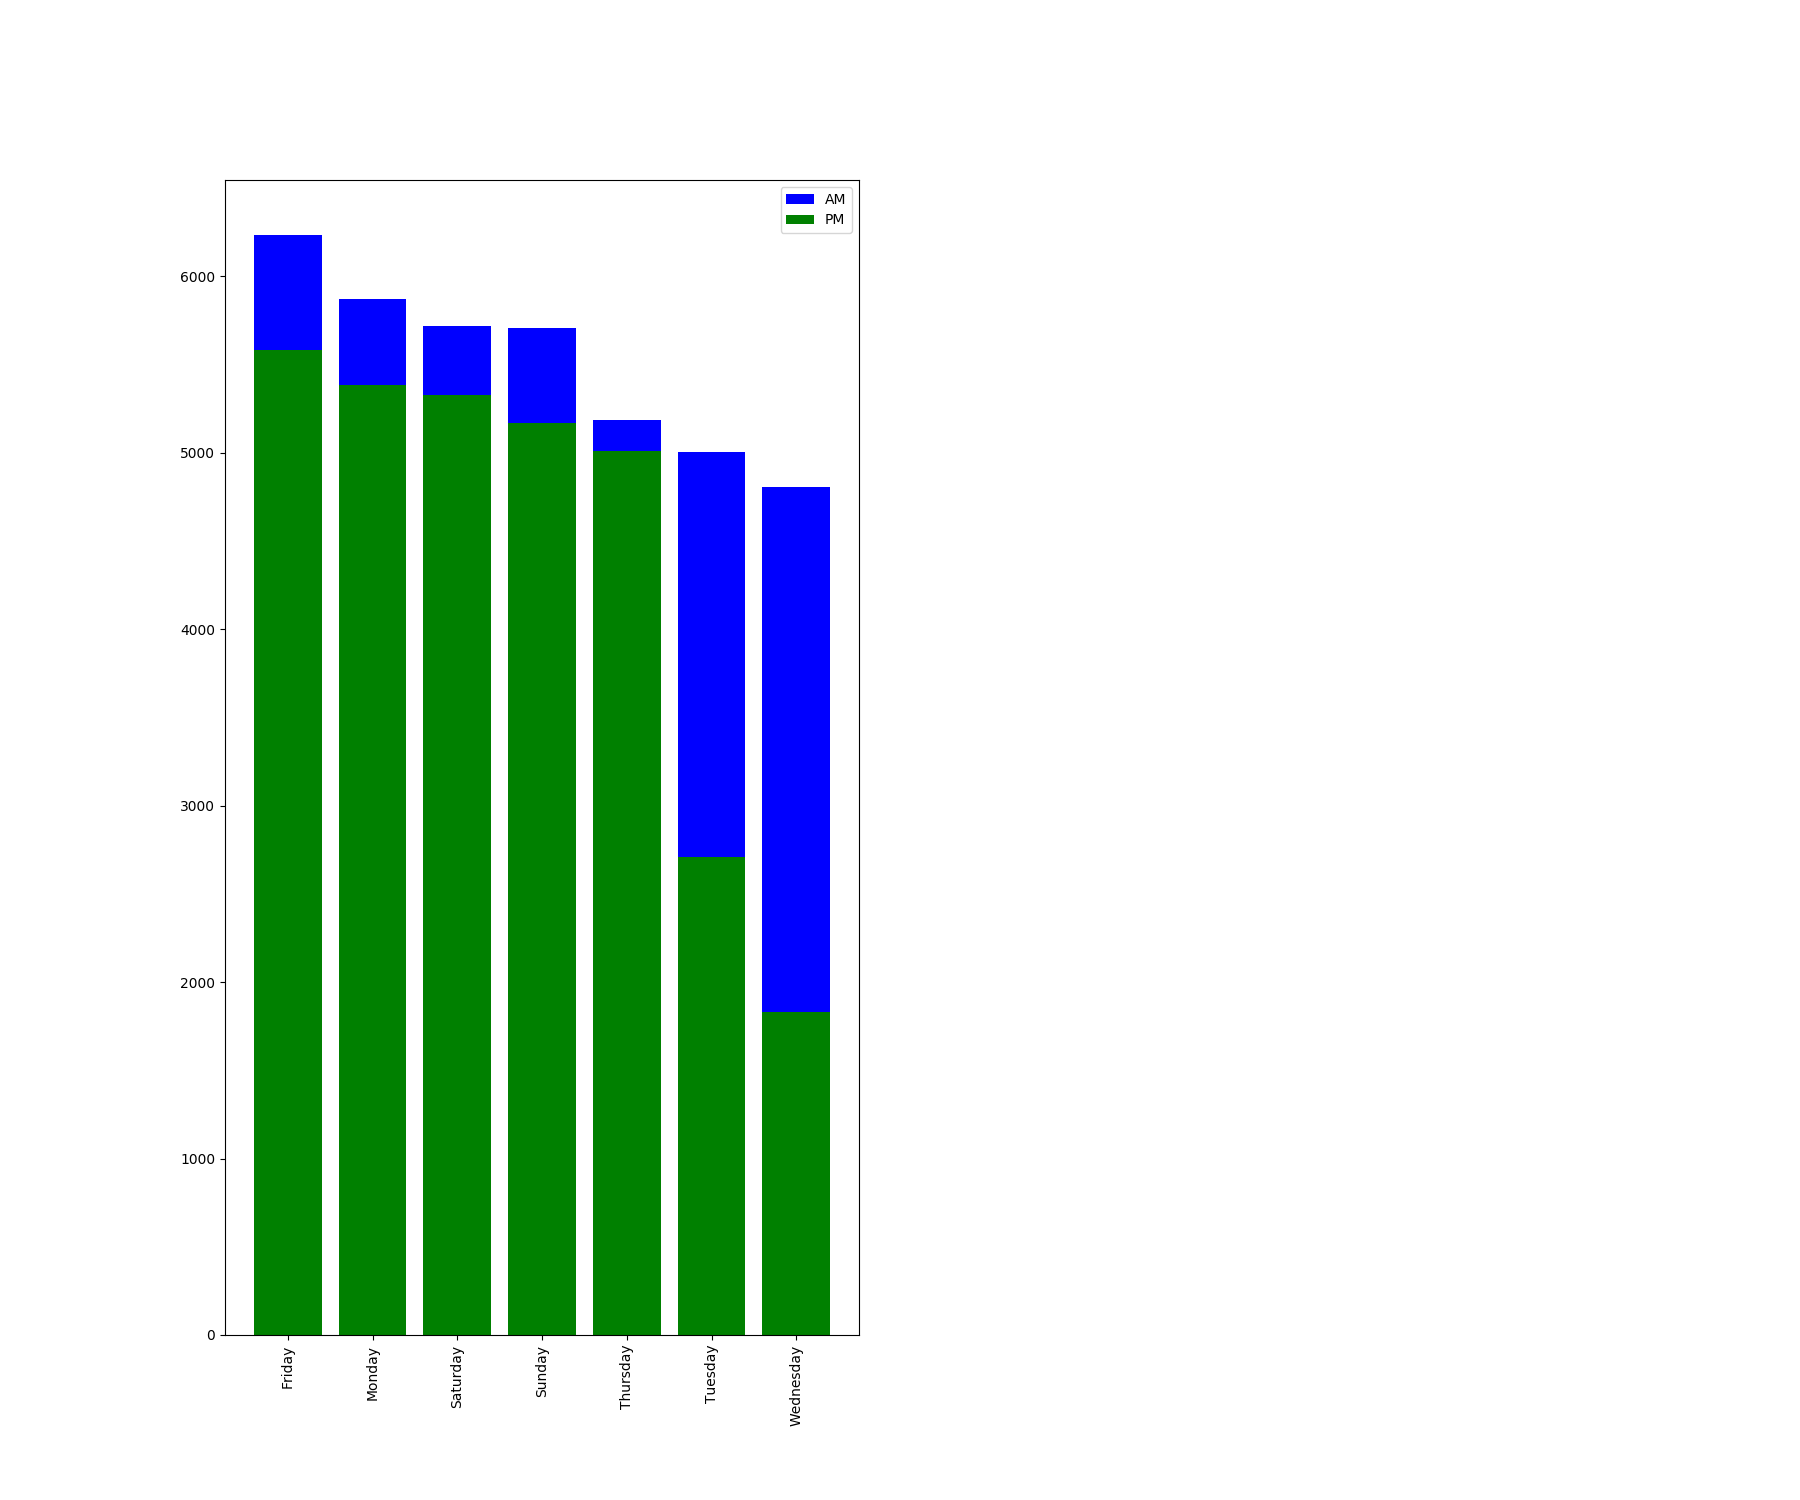
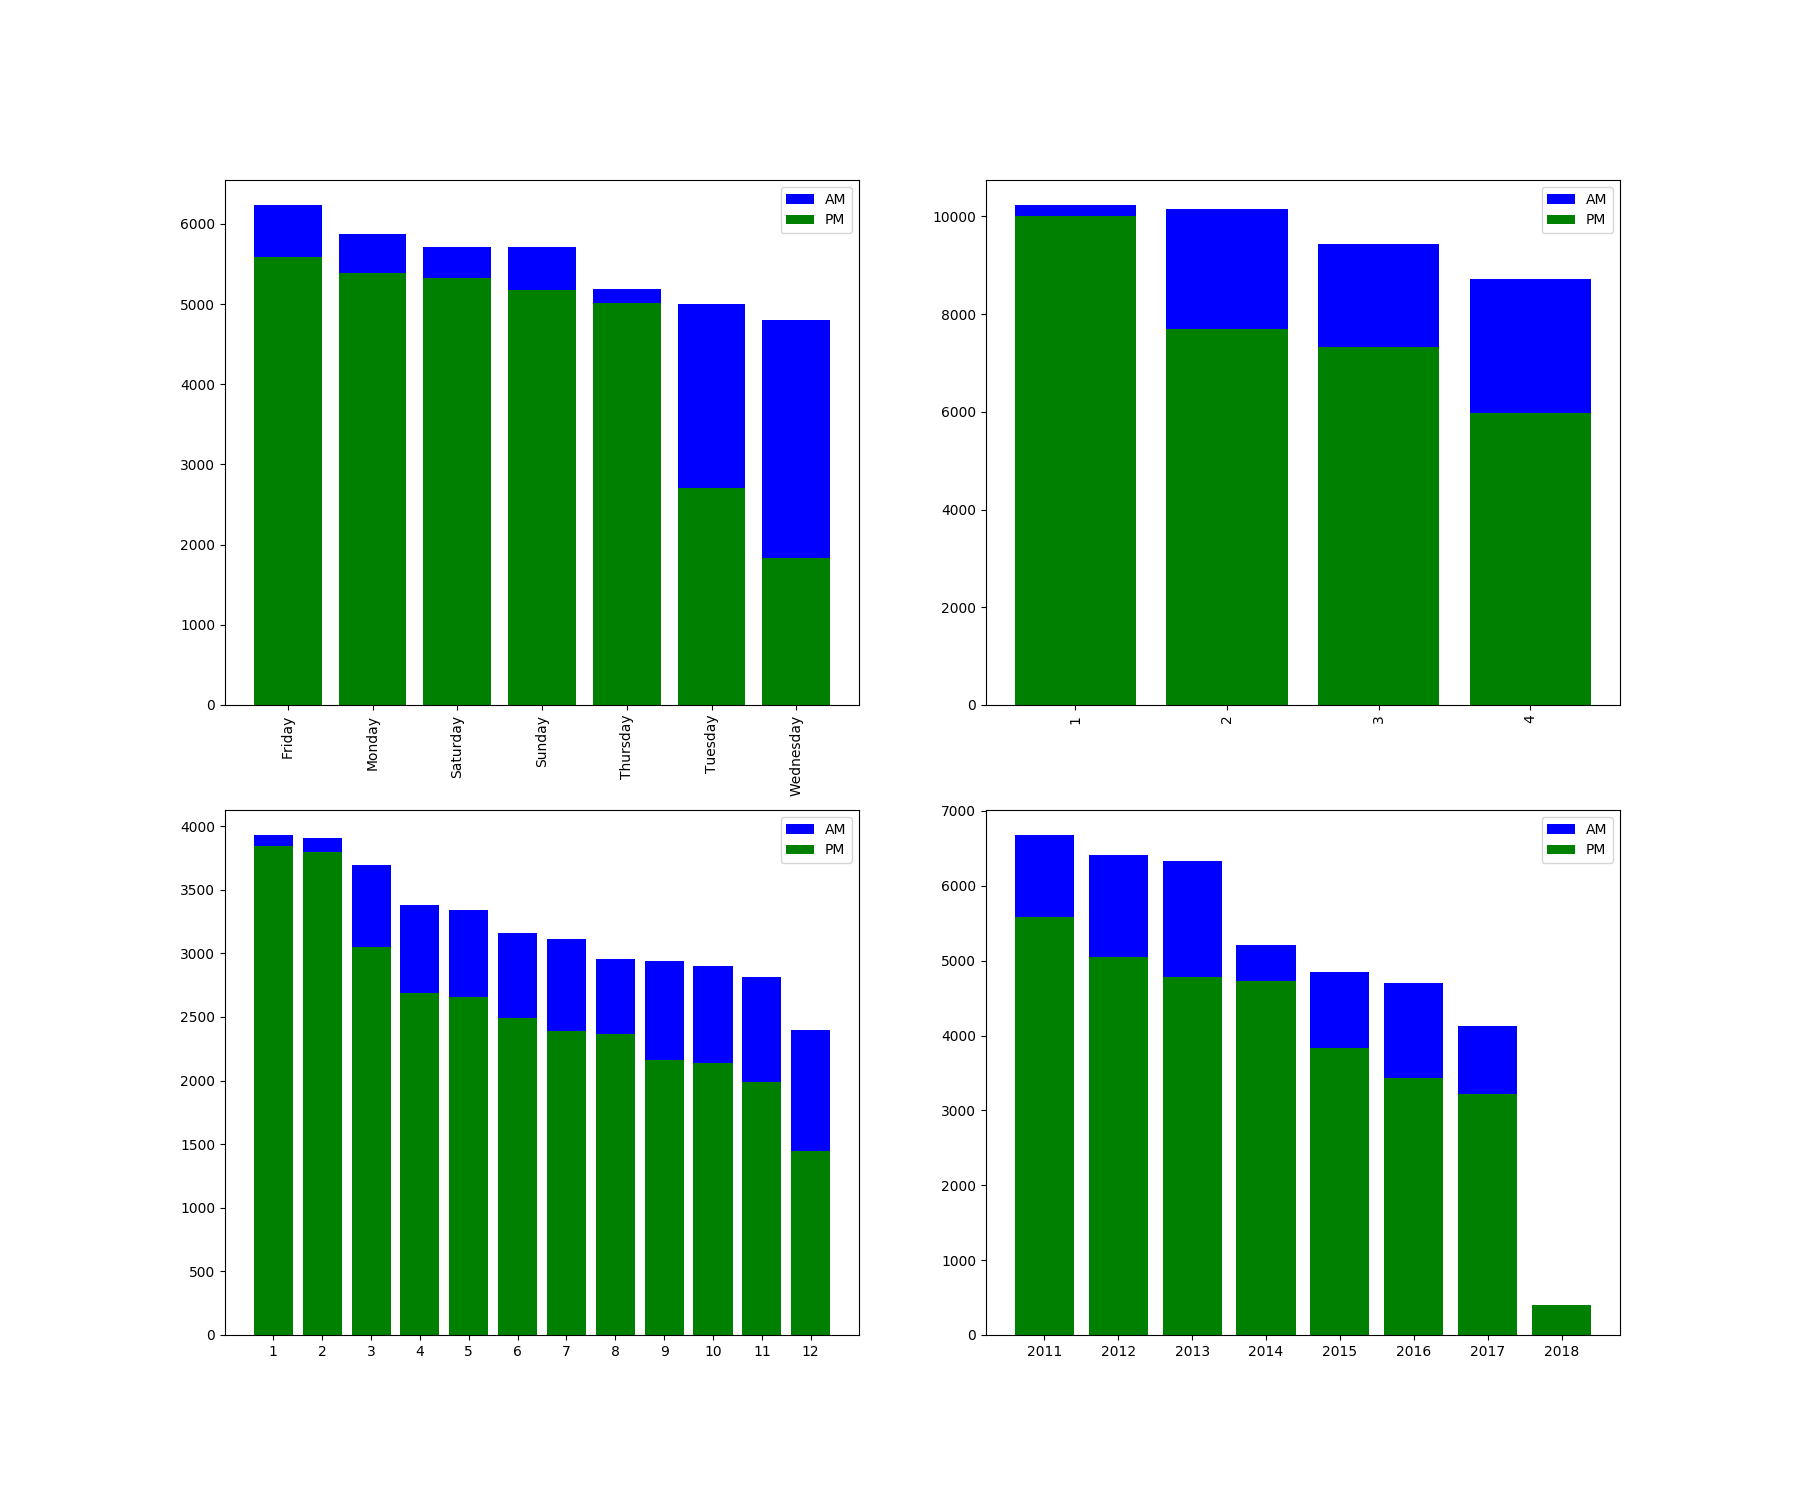
AMPM comparison Season, Month, Year

diff --git a/lastfm.py b/lastfm.py
@@ -96,7 +96,6 @@ plt.xticks(y, idy, rotation=90)
 
 fig.savefig('combined totals.png')
 
-del timemonth, timeyear, timedate, Season, fig
 
 fig = plt.figure()
 ax1 = fig.add_subplot(121)
@@ -119,15 +118,48 @@ pm = lastfm[lastfm['TOD'] == 'PM']
 amVC = pd.DataFrame(am['Day of the Week'].value_counts())
 pmVC = pd.DataFrame(pm['Day of the Week'].value_counts())
 
+ammonthlyVC = pd.DataFrame(am['Date'].dt.month.value_counts())
+pmmonthlyVC = pd.DataFrame(pm['Date'].dt.month.value_counts())
+
+amyearlyVC = pd.DataFrame(am['Date'].dt.year.value_counts())
+pmyearlyVC = pd.DataFrame(pm['Date'].dt.year.value_counts())
+
+amSeasonVC = pd.DataFrame(am['Season'].value_counts())
+pmSeasonVC = pd.DataFrame(pm['Season'].value_counts())
+
 fig = plt.figure()
-ax = fig.add_subplot(121)
+
+ax1 = fig.add_subplot(221)
 idy=DoftheW.index.tolist()
 y = range(len(idy))
 plt.bar(y, amVC['Day of the Week'].values, color='b',align='center')
 plt.bar(y, pmVC['Day of the Week'].values, color='g',align='center')
 plt.xticks(y, idy, rotation=90)
+ax1.legend( ('AM', 'PM') )
+
+ax2 = fig.add_subplot(222)
+idy=Season.index.tolist()
+y = range(len(idy))
+plt.bar(y, amSeasonVC['Season'].values, color='b',align='center')
+plt.bar(y, pmSeasonVC['Season'].values, color='g',align='center')
+plt.xticks(y, idy, rotation=90)
+ax2.legend( ('AM', 'PM') )
 
 
-ax.legend( ('AM', 'PM') )
+ax3 = fig.add_subplot(223)
+idy=timemonth.index.tolist()
+y = range(len(idy))
+plt.bar(y, ammonthlyVC['Date'].values, color='b',align='center')
+plt.bar(y, pmmonthlyVC['Date'].values, color='g',align='center')
+plt.xticks(y, idy)
+ax3.legend( ('AM', 'PM') )
 
+
+ax4 = fig.add_subplot(224)
+idy=timeyear.index.tolist()
+y = range(len(idy))
+plt.bar(y, amyearlyVC['Date'].values, color='b',align='center')
+plt.bar(y, pmyearlyVC['Date'].values, color='g',align='center')
+plt.xticks(y, idy)
+ax4.legend( ('AM', 'PM') )
 fig.savefig('AMPM Comparison.png')
